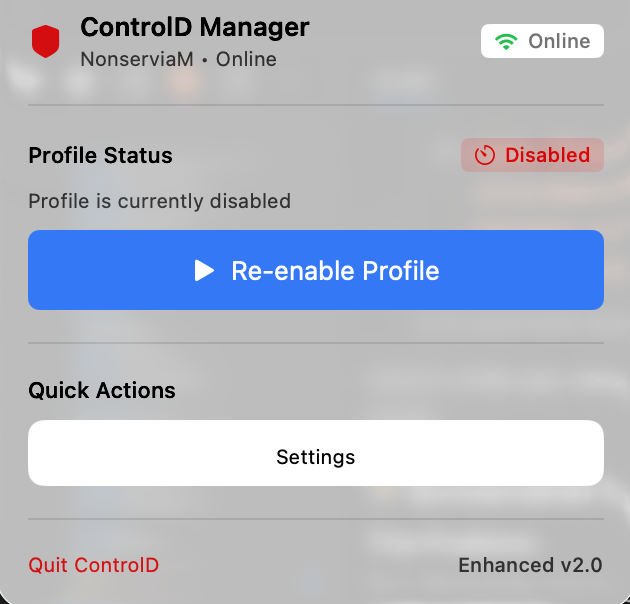
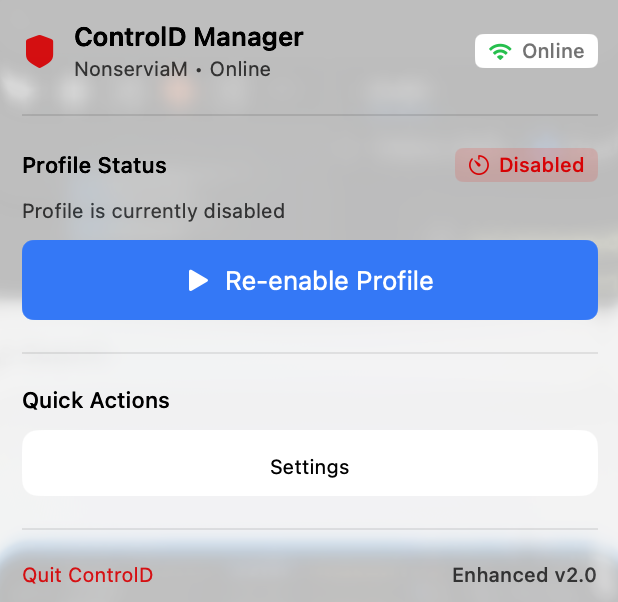
Add ControlD Manager interface screenshot to README

diff --git a/README.md b/README.md
@@ -161,7 +161,18 @@ This project is licensed under the MIT License - see the [LICENSE](LICENSE) file
 
 ## 🎨 Screenshots
 
-*Screenshots coming soon - Interface demonstrations of the beautiful ControlD Manager*
+### Main Interface
+![ControlD Manager Interface](screenshots/controld-manager-interface.png)
+
+*The ControlD Manager interface showing profile status and quick actions*
+
+**Interface Features:**
+- 🟢 **Online Status**: Real-time connection indicator  
+- 👤 **Profile Display**: Current active profile (NonserviaM)
+- 🔴 **Status Badge**: Clear disabled/enabled state indication
+- 🔵 **Re-enable Button**: One-click profile reactivation
+- ⚙ **Settings Access**: Easy configuration management
+- 📱 **Version Info**: Enhanced v2.0 indicator
 
 ## ⭐ Acknowledgments
 
